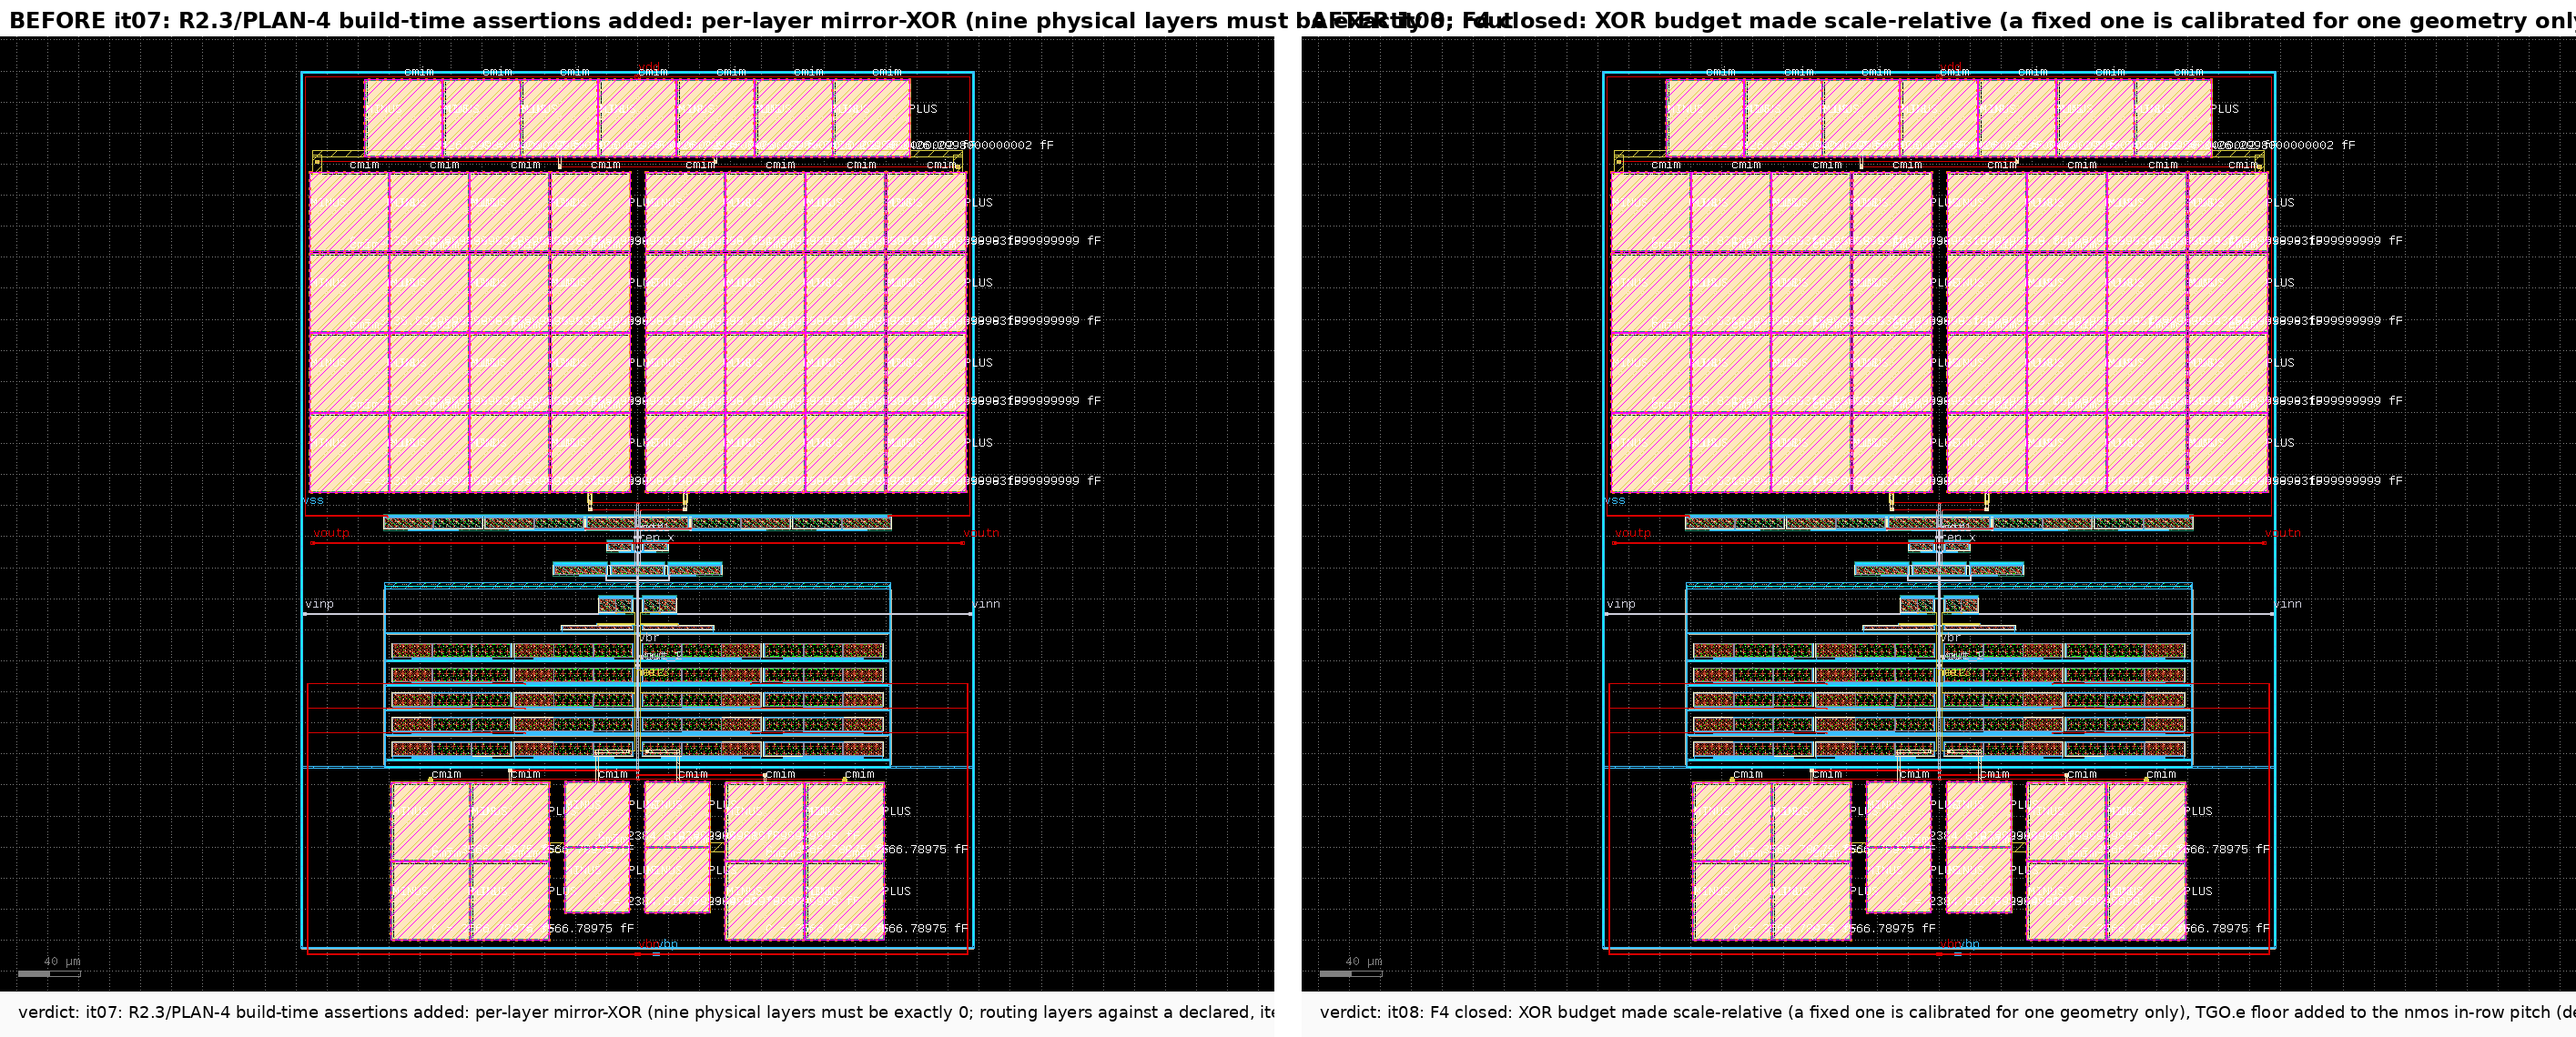
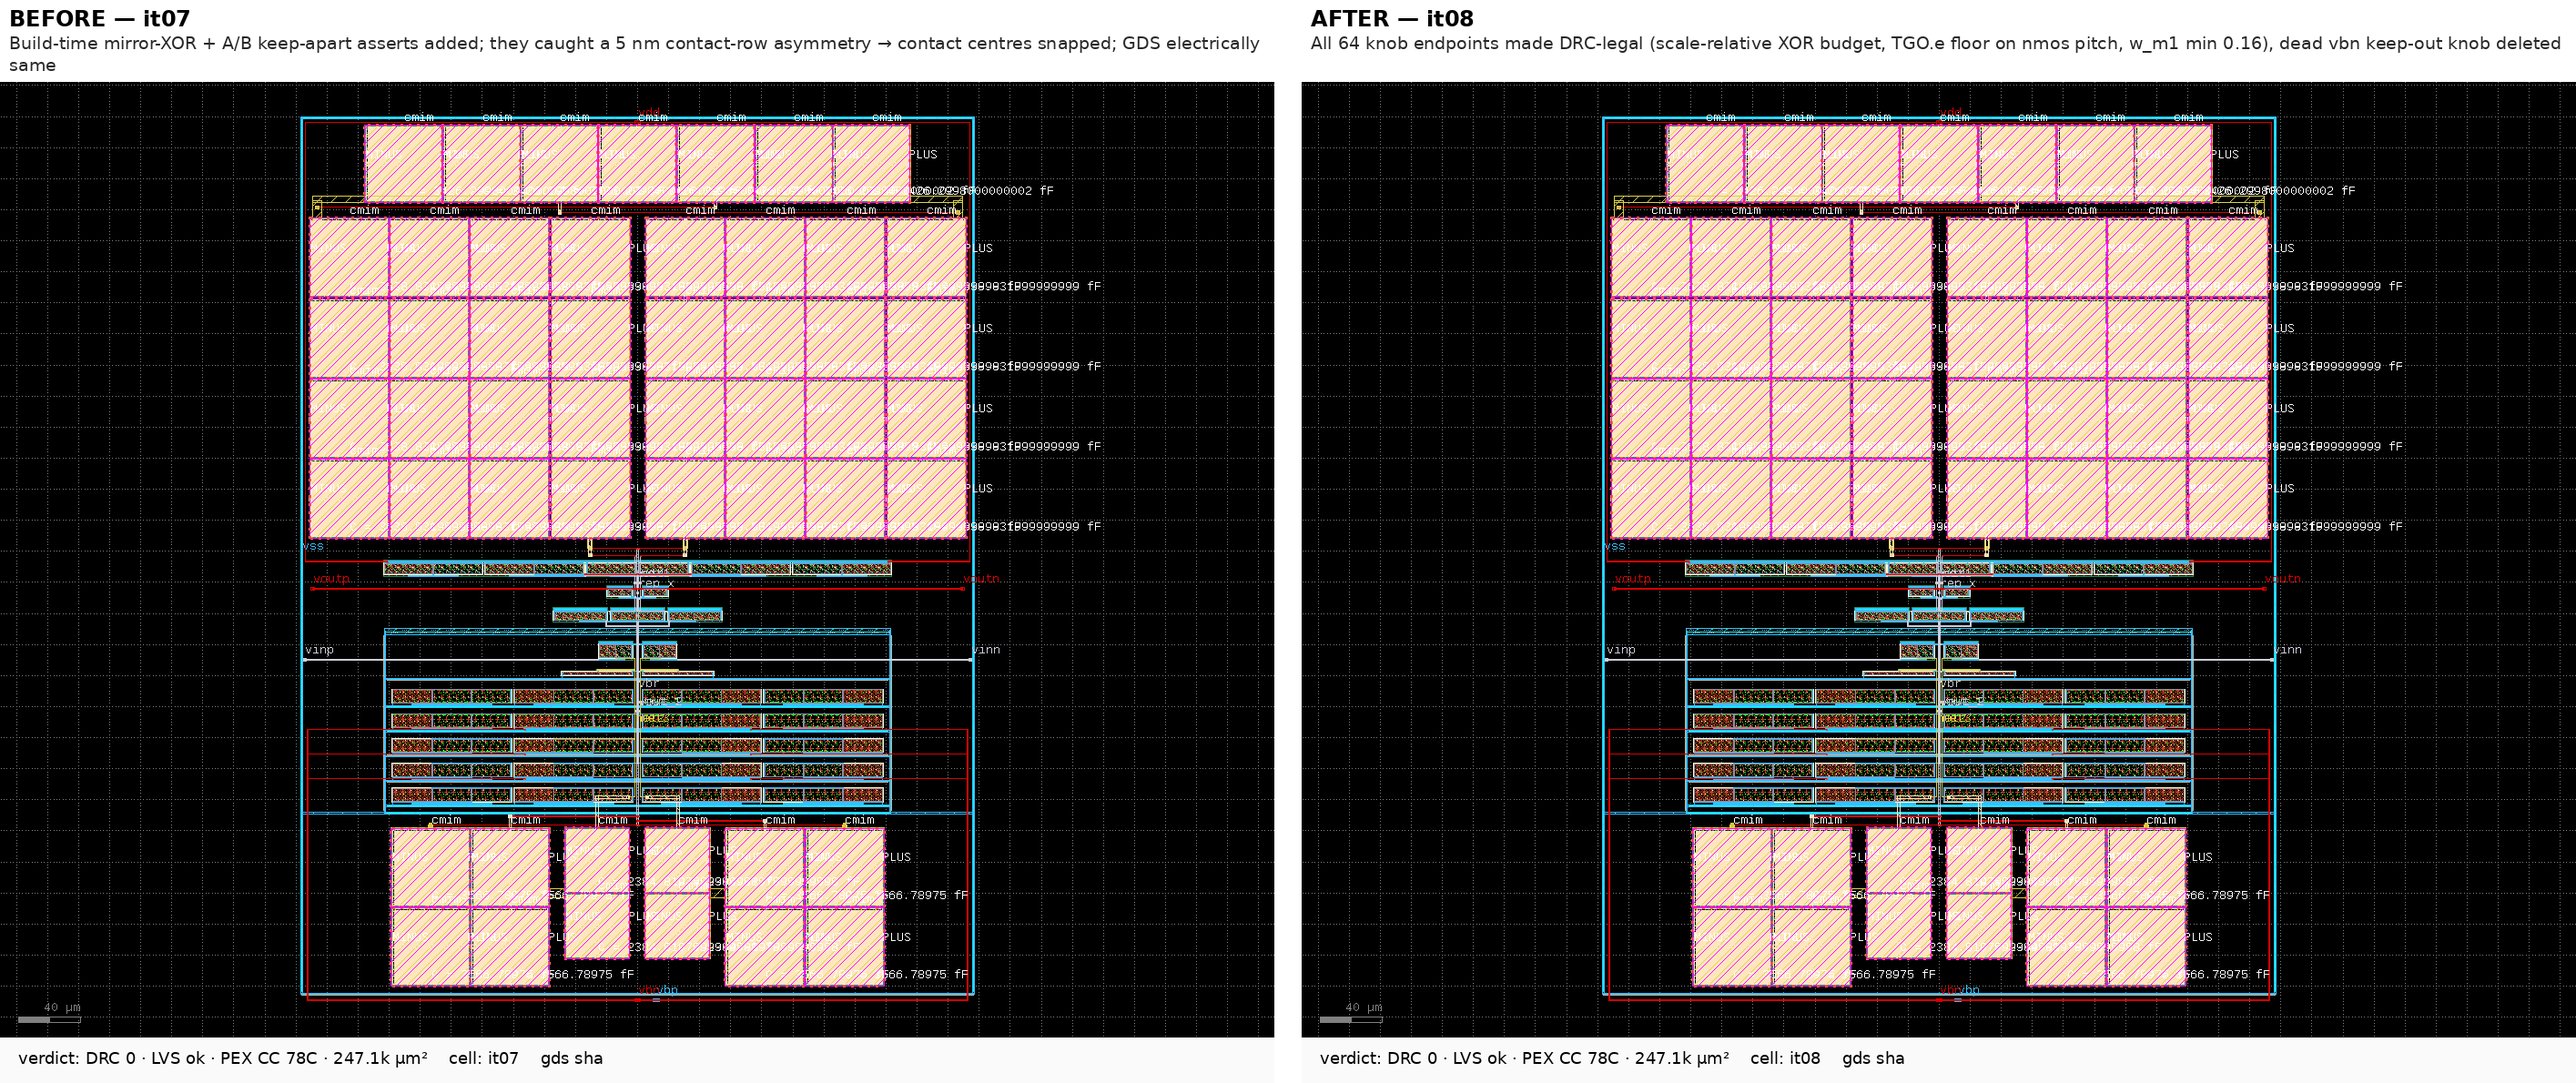
layout(H12-pdk-cap): iteration notes rewritten as one-line expert headlines (long form kept as detail); diffs regenerated with the new title band; REPORT §10 regenerated
Claude-Session: https://claude.ai/code/session_01FfAv8hsVhQ4uyDJ3aQQiD9

Changed region(s): [[0.0, 0.0, 1.0, 0.9825]]

diff --git a/layout/H12-pdk-cap/REPORT.md b/layout/H12-pdk-cap/REPORT.md
@@ -652,20 +652,20 @@ what the endpoint sweep is for, and why it now runs LVS too.
 
 | it | what changed / what it fixed | DRC | LVS | PEX | area µm² | files |
 |---|---|---|---|---|---|---|
-| it01 | it01 = round-1 layout of record rebuilt from the committed generator at default LayoutParams, before any round-2 edit; GDS sha reproduces e5cfa1da... exactly; DRC 0 / LVS matched / kpex CC 78C 0R, round-1 scorecard attached (baseline for the round) | **0** | match | CC 78C/0R | 230624 | [gen](it01/gen.py) [png](it01/layout.png) |
-| it02 | F9 tap_len deleted, F10 BOUNDS/PLAN reconciled + clamp()/validate(), F2 cc13_cols 2->1, F6 spine on the axis-facing column, F4 root causes fixed (outline now contains the device islands; row tap height decoupled from ring_w), xr1_split code added (off) — net2 50.04->42.52, net4 77.30->67.37, d(net4,net1) 10.04->0.11, ph_max 330.732->330.905; DRC 0, LVS matched | **0** | match | CC 78C/0R | 230624 | [gen](it02/gen.py) [png](it02/layout.png) [diff_from_it01](diff_it01_it02.png) |
-| it03 | F5 bank-A re-order (xc13/xc17 on the axis, xc19 split 4+4 outboard) + F8 anti-orientation (xc19 L/R plates swapped, xc12 3|1|3) + cap_gap 0.4->0.6 (Mn.f for the split Metal5 sheets) + LVS reference now emits the two split MIM card pairs — LVS matched first try, but DRC 5x TM1.b: the h() helper caps every wire end by w/2, so the two xc12 comb bars across a 0.6 um group seam end 0.7 um apart | 5 (TM1.b ×5) | match | — | 233346 | [gen](it03/gen.py) [png](it03/layout.png) [diff_from_it02](diff_it02_it03.png) |
-| it04 | TM1.b fixed by insetting the comb bars by w_tm1/2 before h() caps them — DRC back to 0, LVS matched. F5+F8 measured: net2 42.52->32.71, net3 42.11->32.74 (delta 5.10->0.03), vout_1/vout_2 delta 155.80->0.48, voutp/voutn delta 152.95->21.06, ph_max 330.905->331.139 | **0** | match | CC 78C/0R | 233346 | [gen](it04/gen.py) [png](it04/layout.png) [diff_from_it03](diff_it03_it04.png) |
-| it05 | R2.6 residual levers on net2/net3: spine layer Metal2->Metal5 (27.5 vs 34.8 aF/um sidewall), net23_strap=min_m1 (the 52 um xm9 drain bar and the xm4 gate hop leave Metal1 entirely; only contact-row stubs + 0.38 um via pads remain), xc13/xc17 top-aligned with the bank (-18 um of TopMetal1 spine) — net2 32.71->26.46, Metal1 10.7->2.4 fF, C(net2,vbn) 4.47->3.77, ph_max 331.139->331.214; DRC 0, LVS matched | **0** | match | CC 78C/0R | 233346 | [gen](it05/gen.py) [png](it05/layout.png) [diff_from_it04](diff_it04_it05.png) |
-| it06 | F7 bias_dummy_rows=1 (5 drawn rows, 3 live: every array member now has a dummy on four sides; 14 nmos dummies, Mdumn w=336u) + F14 xr1_split=True (two anti-oriented nf=1 W=6u halves, LVS still folds them to W=12u) — cost as priced: island A +31.8 um of height, net2/net3 26.46->28.27, ph_max 331.214->331.155; delta(net2,net3) now exactly 0.000 fF; DRC 0, LVS matched | **0** | match | CC 78C/0R | 247137 | [gen](it06/gen.py) [png](it06/layout.png) [diff_from_it05](diff_it05_it06.png) |
-| it07 | R2.3/PLAN-4 build-time assertions added: per-layer mirror-XOR (nine physical layers must be exactly 0; routing layers against a declared, itemised budget) and the A/B keep-apart check (no Metal5 or TopMetal1 shape may cross the grounded shield band). The XOR assertion immediately found a real defect: the tap contact rows were not their own mirror image (Cont XOR 0.0128 um2 from 5 nm banker's-rounding slivers) — fixed by snapping the contact CENTRE. Electrically identical to it06 (same PEX, same scorecard) | **0** | match | CC 78C/0R | 247137 | [gen](it07/gen.py) [png](it07/layout.png) [diff_from_it06](diff_it06_it07.png) |
-| it08 | F4 closed: XOR budget made scale-relative (a fixed one is calibrated for one geometry only), TGO.e floor added to the nmos in-row pitch (dev_gap_x=1.0 root cause), ws now reaches w_m1's own 0.16 minimum, dead knob vbn_bus_keepout DELETED (measured: after the F5 re-order the vbn M3 bus no longer runs under the net2/net3 corridor and the residual 3.8 fF C(net2,vbn) is xm9's own gate-to-drain geometry, which no routing knob reaches), bankA_order/cap_anti_orient coupling made symmetric so neither knob is dead, axis_gap/cap_bank_gap/w_m2 ranges re-measured — 64/64 BOUNDS endpoints build DRC-clean, 0 dead knobs; GDS unchanged from it07; PEX CC+RC; THD -49.714, HD2 -104.22 (round 1: -88.06) | **0** | match | CC 78C/0R | 247137 | [gen](it08/gen.py) [png](it08/layout.png) [diff_from_it07](diff_it07_it08.png) |
-| it09 | F16: the net2/net3 (and net4/net1) lane offset is now the knob `lane_mid` (BOUNDS 1.9-4.9, clamped to axis_gap/2-1.1) and axis_gap's default moves 6->12, so the two spines sit 9.8 um apart instead of 3.8 -- the reviewer's what-if geometry, reproduced byte-identically (sha c0507860...). C(net2,net3) 1.379 -> 0.000 fF (the element is gone from the extraction: 78 -> 71 C), C(net4,net1) also gone; net2/net3 to ac gnd 28.270 -> 29.106 fF (the lane now runs over its own device row), delta(net2,net3) still exactly 0.000. ph_max 331.155 -> 331.209 nominal, 329.746 -> 329.808 at cap_bcs x0.9 + iref x0.9. DRC 0, LVS matched, area unchanged at 247136.88 um2 | **0** | match | CC 71C/0R | 247137 | [gen](it09/gen.py) [png](it09/layout.png) [diff_from_it08](diff_it08_it09.png) |
-| it10 | F17: net23_strap default min_m1 -> lane_m1, so the Metal1 drain bar is drawn on ALL SIX members of the rep_sink matching class again (BRIEF 2.1 'identical S/D/G routing on all six'); min_m1 stays as a knob but is no longer the default. Measured cost, disclosed: net2/net3 29.106 -> 32.328 fF (the 52 um xm9 drain bar plus the longer Metal1 hops at lane_mid=4.9; C(net2,vinp) 1.175 -> 1.639 partly offsets it), ph_max 331.209 -> 331.160 nominal (-0.050, exactly the reviewer's number) and 329.808 -> 329.751 at cap_bcs. Net of it09+it10 vs round 2: +0.005 deg with the brief's matching rule honoured and the 1.379 fF differential coupling gone. DRC 0, LVS matched | **0** | match | CC 71C/0R | 247137 | [gen](it10/gen.py) [png](it10/layout.png) [diff_from_it09](diff_it09_it10.png) |
-| it11 | F18/F19/F20 guard-rail calibration; GDS byte-identical to it10 (fc59cfd7...), so this round changes only what the build ASSERTS. F18: the round-2 XOR budget passed on it01 -- the very layout F6 was raised against -- so it is re-derived by calibration (max(floor, fraction x the layer's own area), set to ~1.2-2x the round-3 measurement and below it01's) and it01 now FAILS on Metal1 47.556>27.27, Metal2 24.0>2.0, Metal5 948.78>78.10, TopMetal1 847.05>71.85, Via1 1.949>0.5, Via2 1.949>0.5, TopVia1 1.411>1.17. F20: Metal4 + Via1/2/3/4 + TopVia1 added to the table; on Metal3/Metal4/Via3/Via4/TopVia1 the plain XOR is saturated by the F8 balanced swaps (the two members sit at different y), so a second rule XOR_BALANCE asserts the left/right drawn-area balance -- 0.0000 um2 on all eight balance layers in round 3, and it01 breaks it on Metal2/Metal3/Metal4/Via1-4/TopVia1 (that is the rule that actually catches F6's one-sided Metal3 haul, 21.089 um2). F19: the 7.556 um2 Metal1 XOR is re-attributed to the single-orientation xr2 (rep_x bridge, y 234.76-242.21), not xr1. New CLI 'gen_H12_pdk_cap.py --check-symmetry <gds>' re-runs the whole rule on any stored iteration. DRC 0, LVS matched, PEX CC 71C/0R + RC 71C/8609R | **0** | match | CC 71C/0R | 247137 | [gen](it11/gen.py) [png](it11/layout.png) [diff_from_it10](diff_it10_it11.png) |
-| it12 | F18 follow-up -- the calibrated budget of it11 made SEVEN legal BOUNDS endpoints unbuildable (w_m1=1.0 Metal1 55.02>41.14, via_pad=3.0 Metal5 79.2>78.54, and five cap-topology endpoints), i.e. round 2's own recorded trap in a new costume. Fixed WITHOUT loosening the default rule: Metal1 fraction 0.004->0.006 and Metal5 0.0006->0.0008 (both still fail it01), plus a new budgets_for(params) that applies a DECLARED, measured relaxation to exactly the layers a non-mirrored cap topology touches -- cap_spine_side='left' (both halves put the top-plate spine on their left column), bankA_order='c19_axis'/cap_anti_orient=False (one on-axis xc19 array whose riser must pick a half) and cc12_split='none' (seven units cannot be arranged mirror-symmetrically). The default configuration -- the layout of record, and what an older GDS is judged by -- keeps the tight table. Result: 66/66 endpoints build DRC-clean, 0 dead knobs, and 'gen_H12_pdk_cap.py --check-symmetry iterations/it01/layout.gds' still FAILS on 15 rules across 8 layers while it08/it11/it12 PASS. GDS byte-identical to it10/it11 (fc59cfd7...); PEX C-card set byte-identical to it11's; DRC 0, LVS matched, PEX CC 71C/0R + RC 71C/8609R | **0** | match | CC 71C/0R | 247137 | [gen](it12/gen.py) [png](it12/layout.png) [diff_from_it11](diff_it11_it12.png) |
-| it13 | Documentation round, no geometry and no rule change: the module docstring gains the round-3 summary and the new --check-symmetry CLI line. GDS byte-identical to it10/it11/it12 (fc59cfd7...) and re-verified end to end anyway -- DRC 0, LVS matched, kpex CC 71C/0R -- so the LAST entry of this trail is the committed generator (sha 6ae114ad...), which is the property a reviewer rebuilds against. Round 3 delivers here: ph_max 331.1595 nominal / 329.751 at cap_bcs x0.9 + iref x0.9 (S1 still short by 0.249 deg, delivered with the miss documented), C(net2,net3) 0.000 fF, identical routing on all six rep_sink units, symmetry guard-rail FAILING on it01 as it must, 66/66 BOUNDS endpoints DRC-clean | **0** | match | CC 71C/0R | 247137 | [gen](it13/gen.py) [png](it13/layout.png) [diff_from_it12](diff_it12_it13.png) |
-| it14 | Round 4: owner reversed PLAN R2.8 Q2 -- bias_dummy_rows=0 (the bias array's dummy ROWS; the dummy COLUMNS stay) plus the area campaign's A-best numeric knob point as the new LayoutParams defaults. Measured by the campaign and reproduced exactly here: area 247 136.9 -> 228 093.6 um2 (-7.7 %), ph_max 331.1595 -> 331.2208 (+0.061), net2/net3 32.328/32.329 -> 30.198/30.217 fF (-2.13), C(net2,net3) still 0.0000, DRC 0, LVS match, kpex CC 69 C / RC 69 C + 6331 R agreeing to 0.0003 deg. cap_bcs x0.9 + iref x0.9 improves 329.751 -> 329.821, still 0.179 short of the 330 limit (F1 carried). Generator fix in the same round: clamp() now ties cc12_cols to cc12_split (cols must divide the m=7 array and only 7 carries the 3-1-3 split) -- the LVS break the campaign found. The 66-endpoint BOUNDS sweep was then re-run WITH LVS (round 3 was DRC-only): 65/66 build, 65/65 DRC clean, 63/65 LVS match -- w_m1=1.0 shorts 11 nets at zero DRC violations (fails at round-3 defaults too, a latent defect), ring_gap=15.0 shorts vout_1/vout_2/vss (new at this point), w_tm1=4.0 trips the scale-relative TopMetal1 XOR budget by 0.6 %. BOUNDS defects, not layout-of-record defects; the fix is round 5. Cross-check: this generator built at round-3 default values reproduces round 3 byte-identically (sha fc59cfd7ef...). | **0** | match | CC 69C/0R | 228094 | [gen](it14/gen.py) [png](it14/layout.png) [diff_from_it13](diff_it13_it14.png) |
+| it01 | Baseline: round-1 layout of record rebuilt (sha e5cfa1da…) — DRC 0, LVS, 78 C; net2 50.0 fF, ph_max 330.73° | **0** | match | CC 78C/0R | 230624 | [gen](iterations/it01/gen.py) [png](iterations/it01/layout.png) |
+| it02 | Cleanup: dead tap_len knob removed, cc13 1 column, cap spine on the axis-facing column → net2 50.0→42.5 fF, net4 asym 10.0→0.1 fF | **0** | match | CC 78C/0R | 230624 | [gen](iterations/it02/gen.py) [png](iterations/it02/layout.png) [diff_from_it01](iterations/diff_it01_it02.png) |
+| it03 | xc13/xc17 moved onto the axis, xc19 split 4+4 outboard, xc12 anti-oriented 3|1|3 → LVS ok but 5× TM1.b: comb-bar ends 0.7 µm apart at the seam | 5 (TM1.b ×5) | match | — | 233346 | [gen](iterations/it03/gen.py) [png](iterations/it03/layout.png) [diff_from_it02](iterations/diff_it02_it03.png) |
+| it04 | TM1.b fixed (comb bars inset w/2 before end caps) → DRC 0; re-order measured: net2 42.5→32.7 fF, Δ(net2,net3) 5.1→0.03, ph_max +0.23° | **0** | match | CC 78C/0R | 233346 | [gen](iterations/it04/gen.py) [png](iterations/it04/layout.png) [diff_from_it03](iterations/diff_it03_it04.png) |
+| it05 | net2/net3 spine Metal2→Metal5, min-Metal1 straps, xc13/xc17 top-aligned → net2 32.7→26.5 fF, ph_max 331.14→331.21° | **0** | match | CC 78C/0R | 233346 | [gen](iterations/it05/gen.py) [png](iterations/it05/layout.png) [diff_from_it04](iterations/diff_it04_it05.png) |
+| it06 | Bias array gets dummy rows, xr1 split anti-oriented → matching per brief; cost +31.8 µm height (+5.9 %), net2 +1.8 fF, ph_max −0.06° | **0** | match | CC 78C/0R | 247137 | [gen](iterations/it06/gen.py) [png](iterations/it06/layout.png) [diff_from_it05](iterations/diff_it05_it06.png) |
+| it07 | Build-time mirror-XOR + A/B keep-apart asserts added; they caught a 5 nm contact-row asymmetry → contact centres snapped; GDS electrically same | **0** | match | CC 78C/0R | 247137 | [gen](iterations/it07/gen.py) [png](iterations/it07/layout.png) [diff_from_it06](iterations/diff_it06_it07.png) |
+| it08 | All 64 knob endpoints made DRC-legal (scale-relative XOR budget, TGO.e floor on nmos pitch, w_m1 min 0.16), dead vbn keep-out knob deleted | **0** | match | CC 78C/0R | 247137 | [gen](iterations/it08/gen.py) [png](iterations/it08/layout.png) [diff_from_it07](iterations/diff_it07_it08.png) |
+| it09 | 1.4 fF net2↔net3 lane coupling: lane offset made a knob, spines 3.8→9.8 µm apart → coupling 0.000 fF, ph_max +0.05° | **0** | match | CC 71C/0R | 247137 | [gen](iterations/it09/gen.py) [png](iterations/it09/layout.png) [diff_from_it08](iterations/diff_it08_it09.png) |
+| it10 | Identical Metal1 drain bar restored on all six bias-sink units (matching rule) → net2 29.1→32.3 fF, ph_max −0.05° (disclosed trade) | **0** | match | CC 71C/0R | 247137 | [gen](iterations/it10/gen.py) [png](iterations/it10/layout.png) [diff_from_it09](iterations/diff_it09_it10.png) |
+| it11 | Symmetry guard-rail recalibrated: round-1 layout now FAILS it (15 rules), round 3 passes; via layers + half-plane balance added; --check-symmetry CLI | **0** | match | CC 71C/0R | 247137 | [gen](iterations/it11/gen.py) [png](iterations/it11/layout.png) [diff_from_it10](iterations/diff_it10_it11.png) |
+| it12 | Recalibration had made 7 legal knob endpoints unbuildable → per-topology declared budgets; 66/66 endpoints DRC-clean, GDS unchanged | **0** | match | CC 71C/0R | 247137 | [gen](iterations/it12/gen.py) [png](iterations/it12/layout.png) [diff_from_it11](iterations/diff_it11_it12.png) |
+| it13 | Docs-only round (round-3 summary in module docstring); GDS byte-identical, re-verified DRC 0 / LVS / 71 C — the committed generator | **0** | match | CC 71C/0R | 247137 | [gen](iterations/it13/gen.py) [png](iterations/it13/layout.png) [diff_from_it12](iterations/diff_it12_it13.png) |
+| it14 | Owner dropped the bias dummy rows + area-campaign knobs as defaults → area 247.1k→228.1k µm² (−7.7 %), ph_max 331.16→331.22°, net2 32.3→30.2 fF | **0** | match | CC 69C/0R | 228094 | [gen](iterations/it14/gen.py) [png](iterations/it14/layout.png) [diff_from_it13](iterations/diff_it13_it14.png) |
 
 Fourteen rounds across four passes; round 4 is **it14 alone**. It is the only
 round in this trail whose change is *not* a generator edit that draws something
@@ -711,7 +711,6 @@ The dead ends and lessons worth remembering from this round:
   the output nets, which is the same ±3 dB spread).
 
 ---
-
 ## Summary
 
 **Round 4 (this round)** — a **decision round**: the block owner reversed
